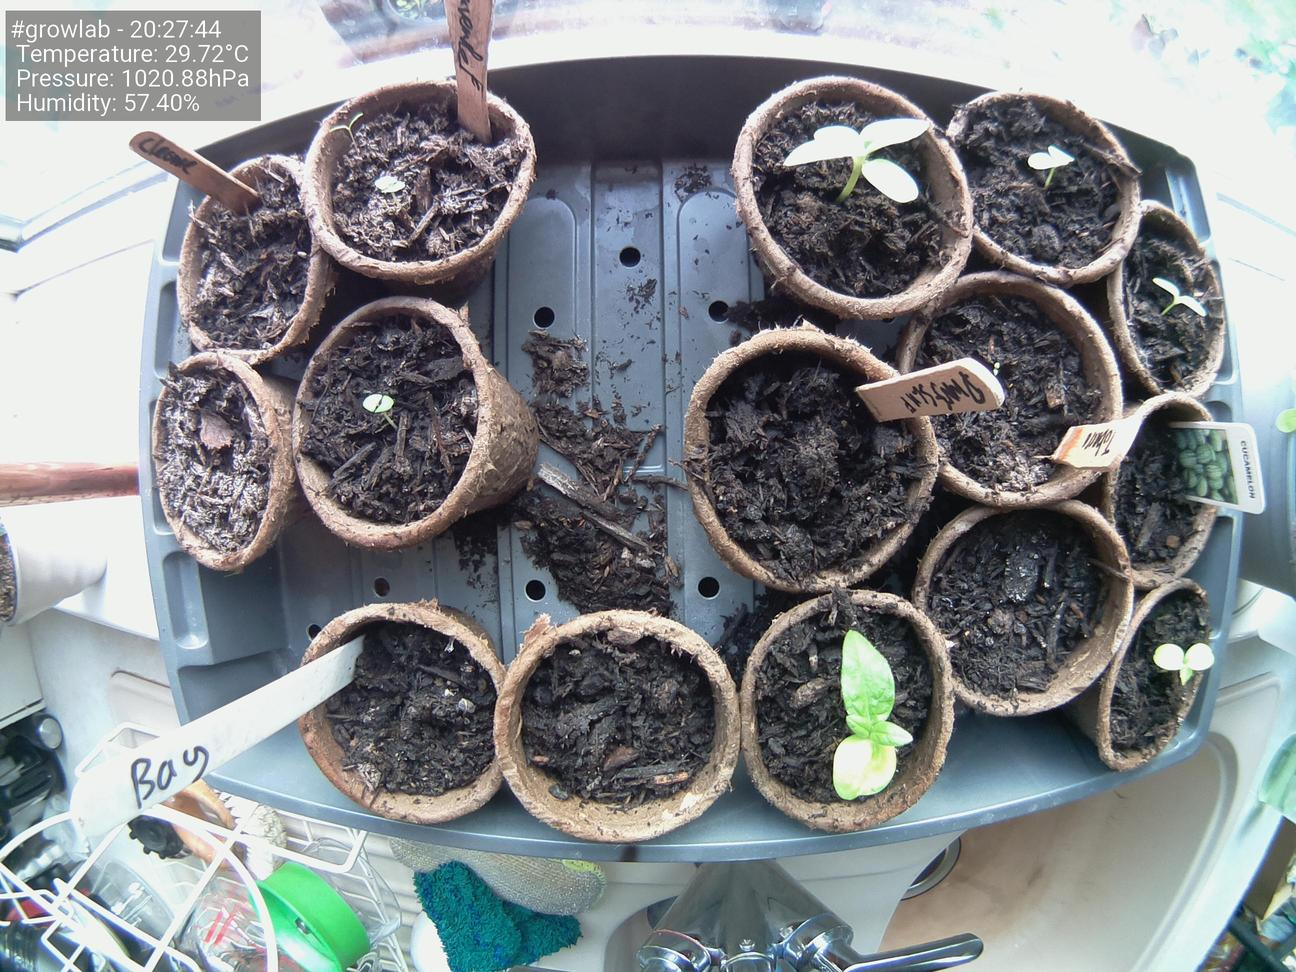
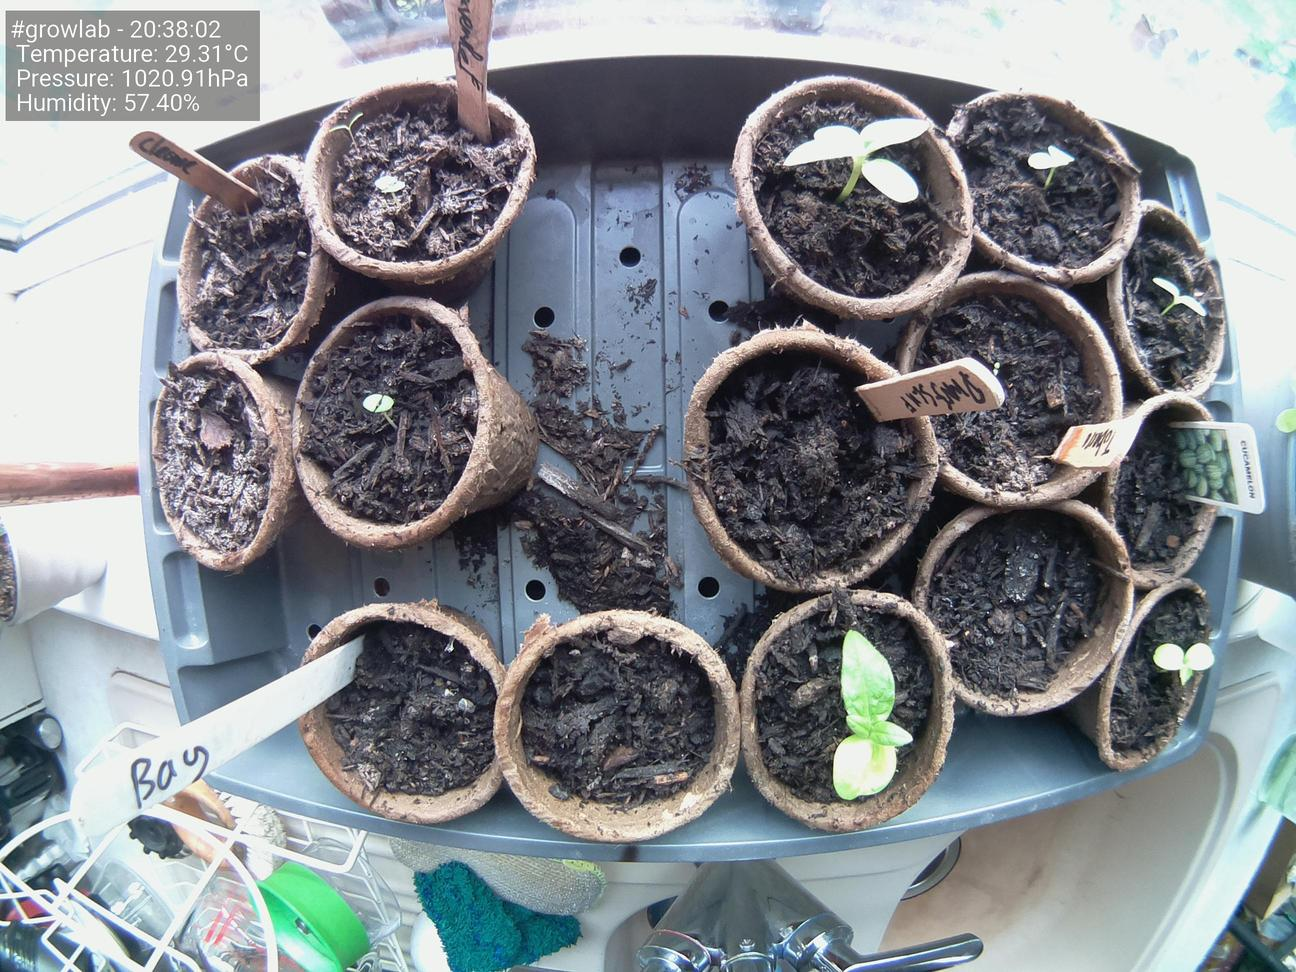
Update images at Mon 14 Jun 20:38:11 BST 2021

Changed region(s): [[0.1235, 0.0309, 0.1852, 0.0926], [0.9568, 0.9568, 0.9877, 0.9877], [0.4938, 0.9259, 0.5247, 0.9568]]

diff --git a/docs/index.html b/docs/index.html
@@ -47,11 +47,11 @@
                         <tbody>
                             <tr>
                                 <td>Time</td>
-                                <td>20:27:44</td>
+                                <td>20:38:02</td>
                             </tr>
                             <tr>
                                 <td>Temperature</td>
-                                <td>29.72°C</td>
+                                <td>29.31°C</td>
                             </tr>
                             <tr>
                                 <td>Humidity</td>
@@ -59,7 +59,7 @@
                             </tr>
                             <tr>
                                 <td>Pressure</td>
-                                <td>1020.88hPa</td>
+                                <td>1020.91hPa</td>
                             </tr>
                         </tbody>
                     </table>
@@ -67,7 +67,7 @@
 
                 <h5>Latest image</h5>
                 <div style="width: 85%;">
-                            <img class="figure-img img-fluid rounded" src="./preview.jpg?uid=1623698872.829756">
+                            <img class="figure-img img-fluid rounded" src="./preview.jpg?uid=1623699491.3613358">
                 </div>
             </div>
         </div>
